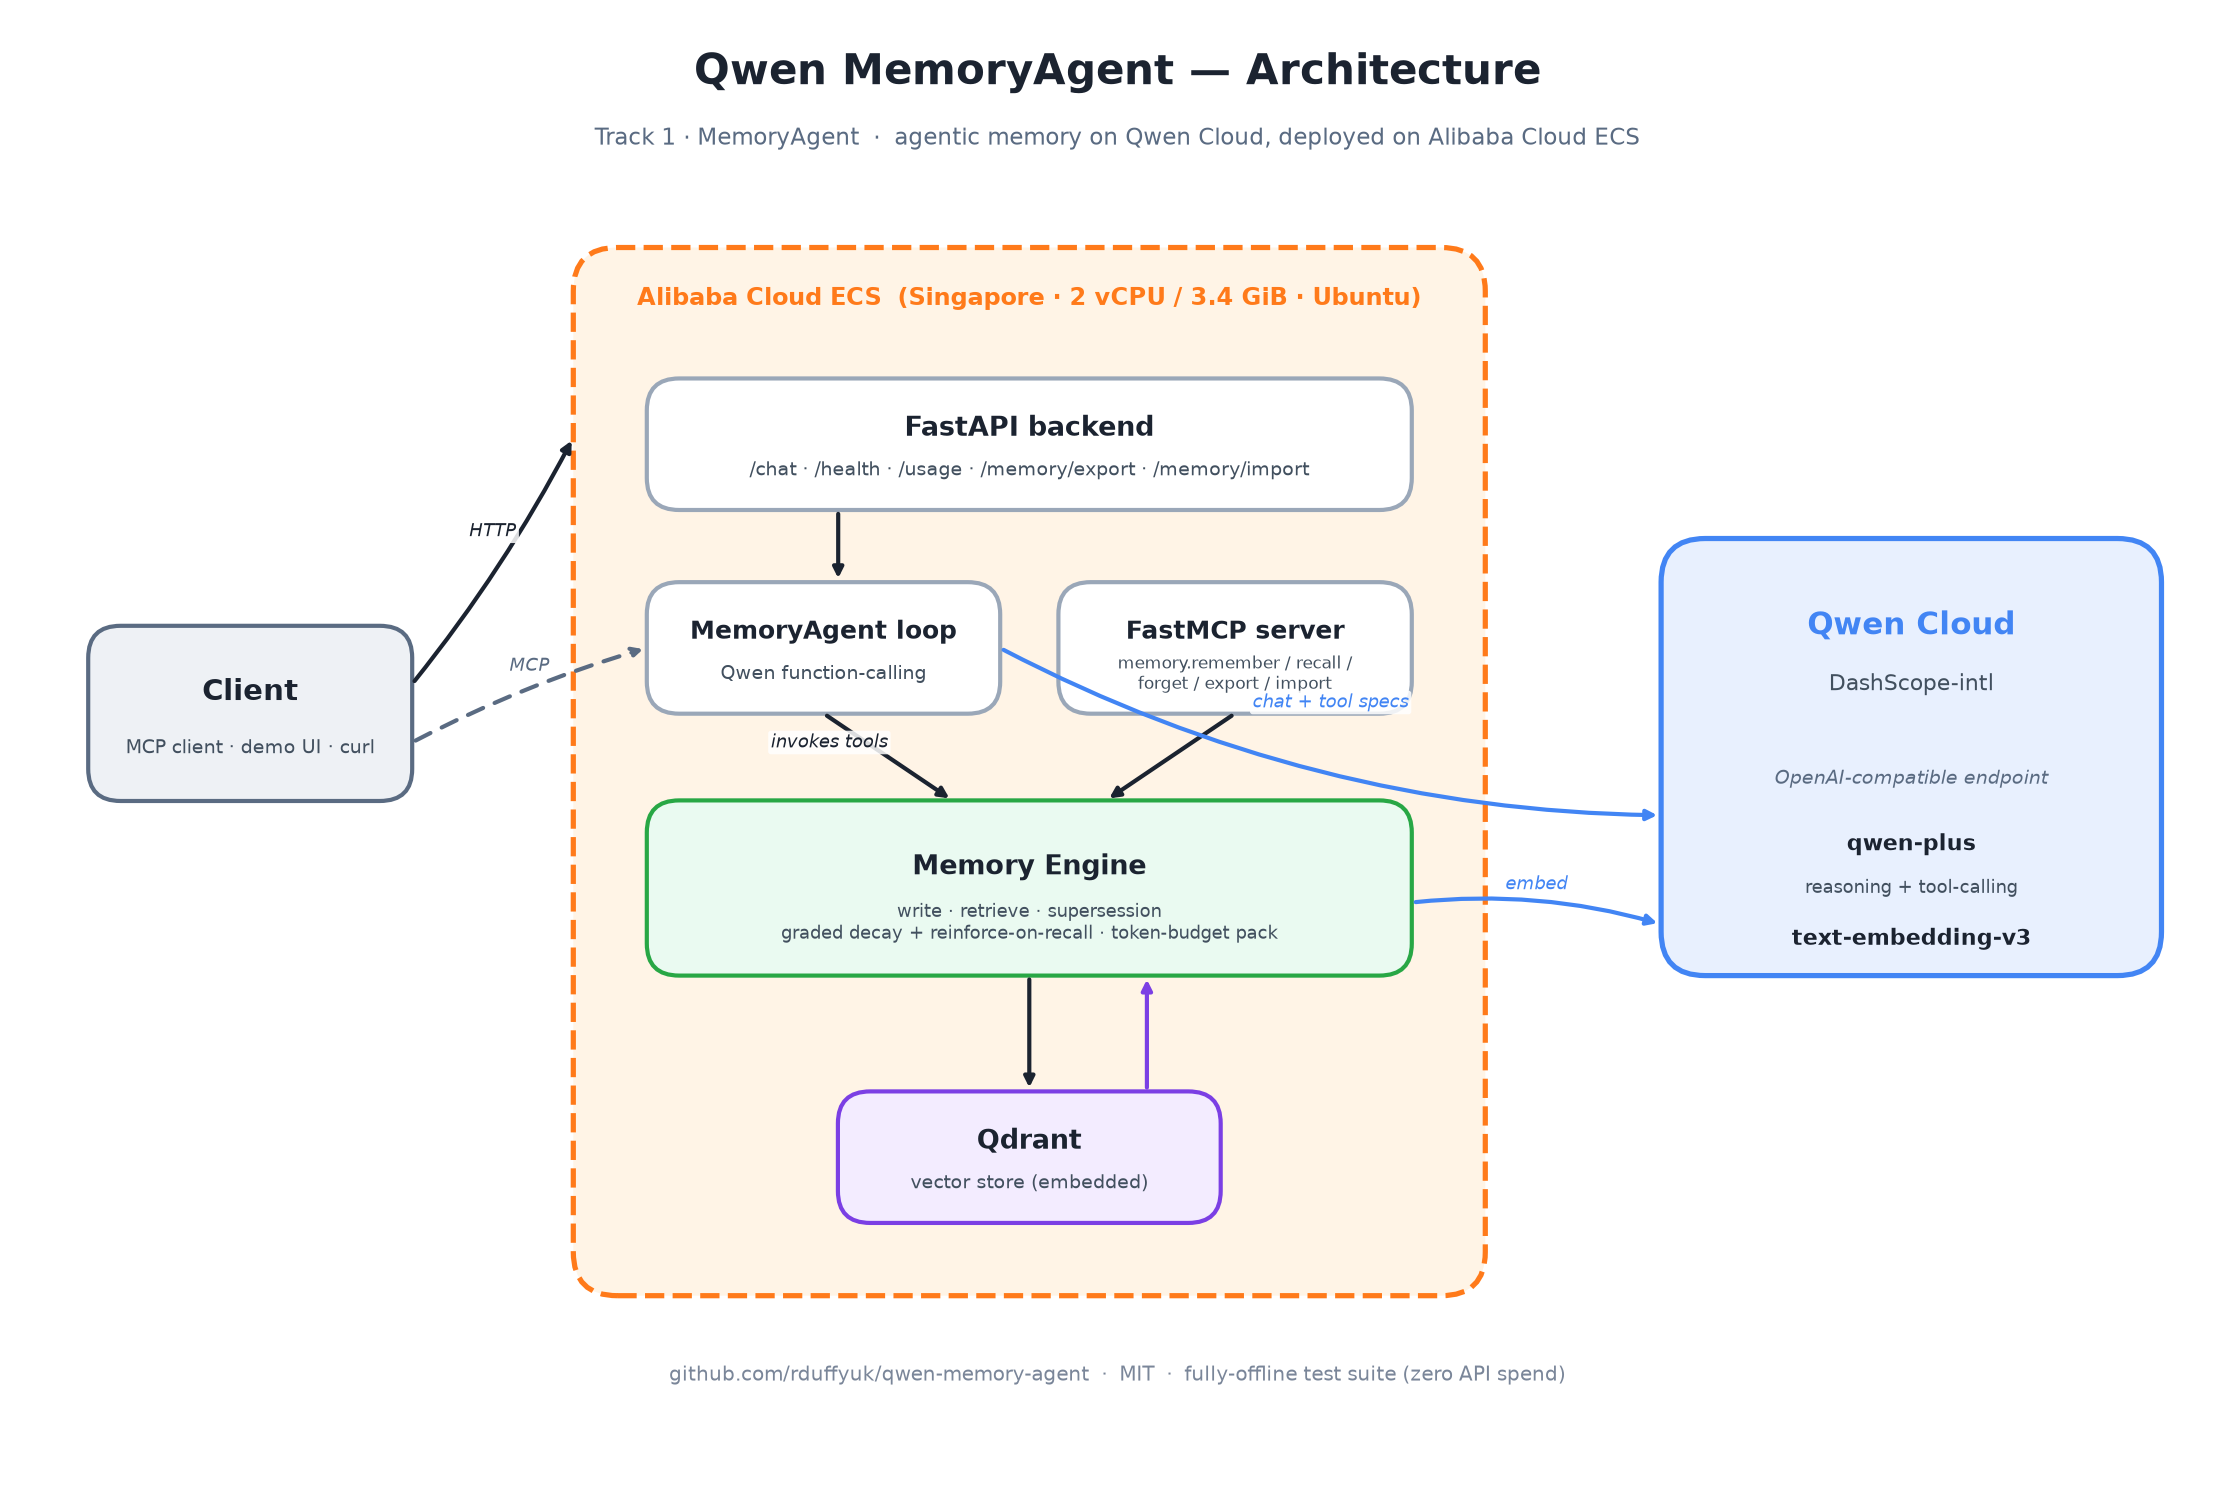
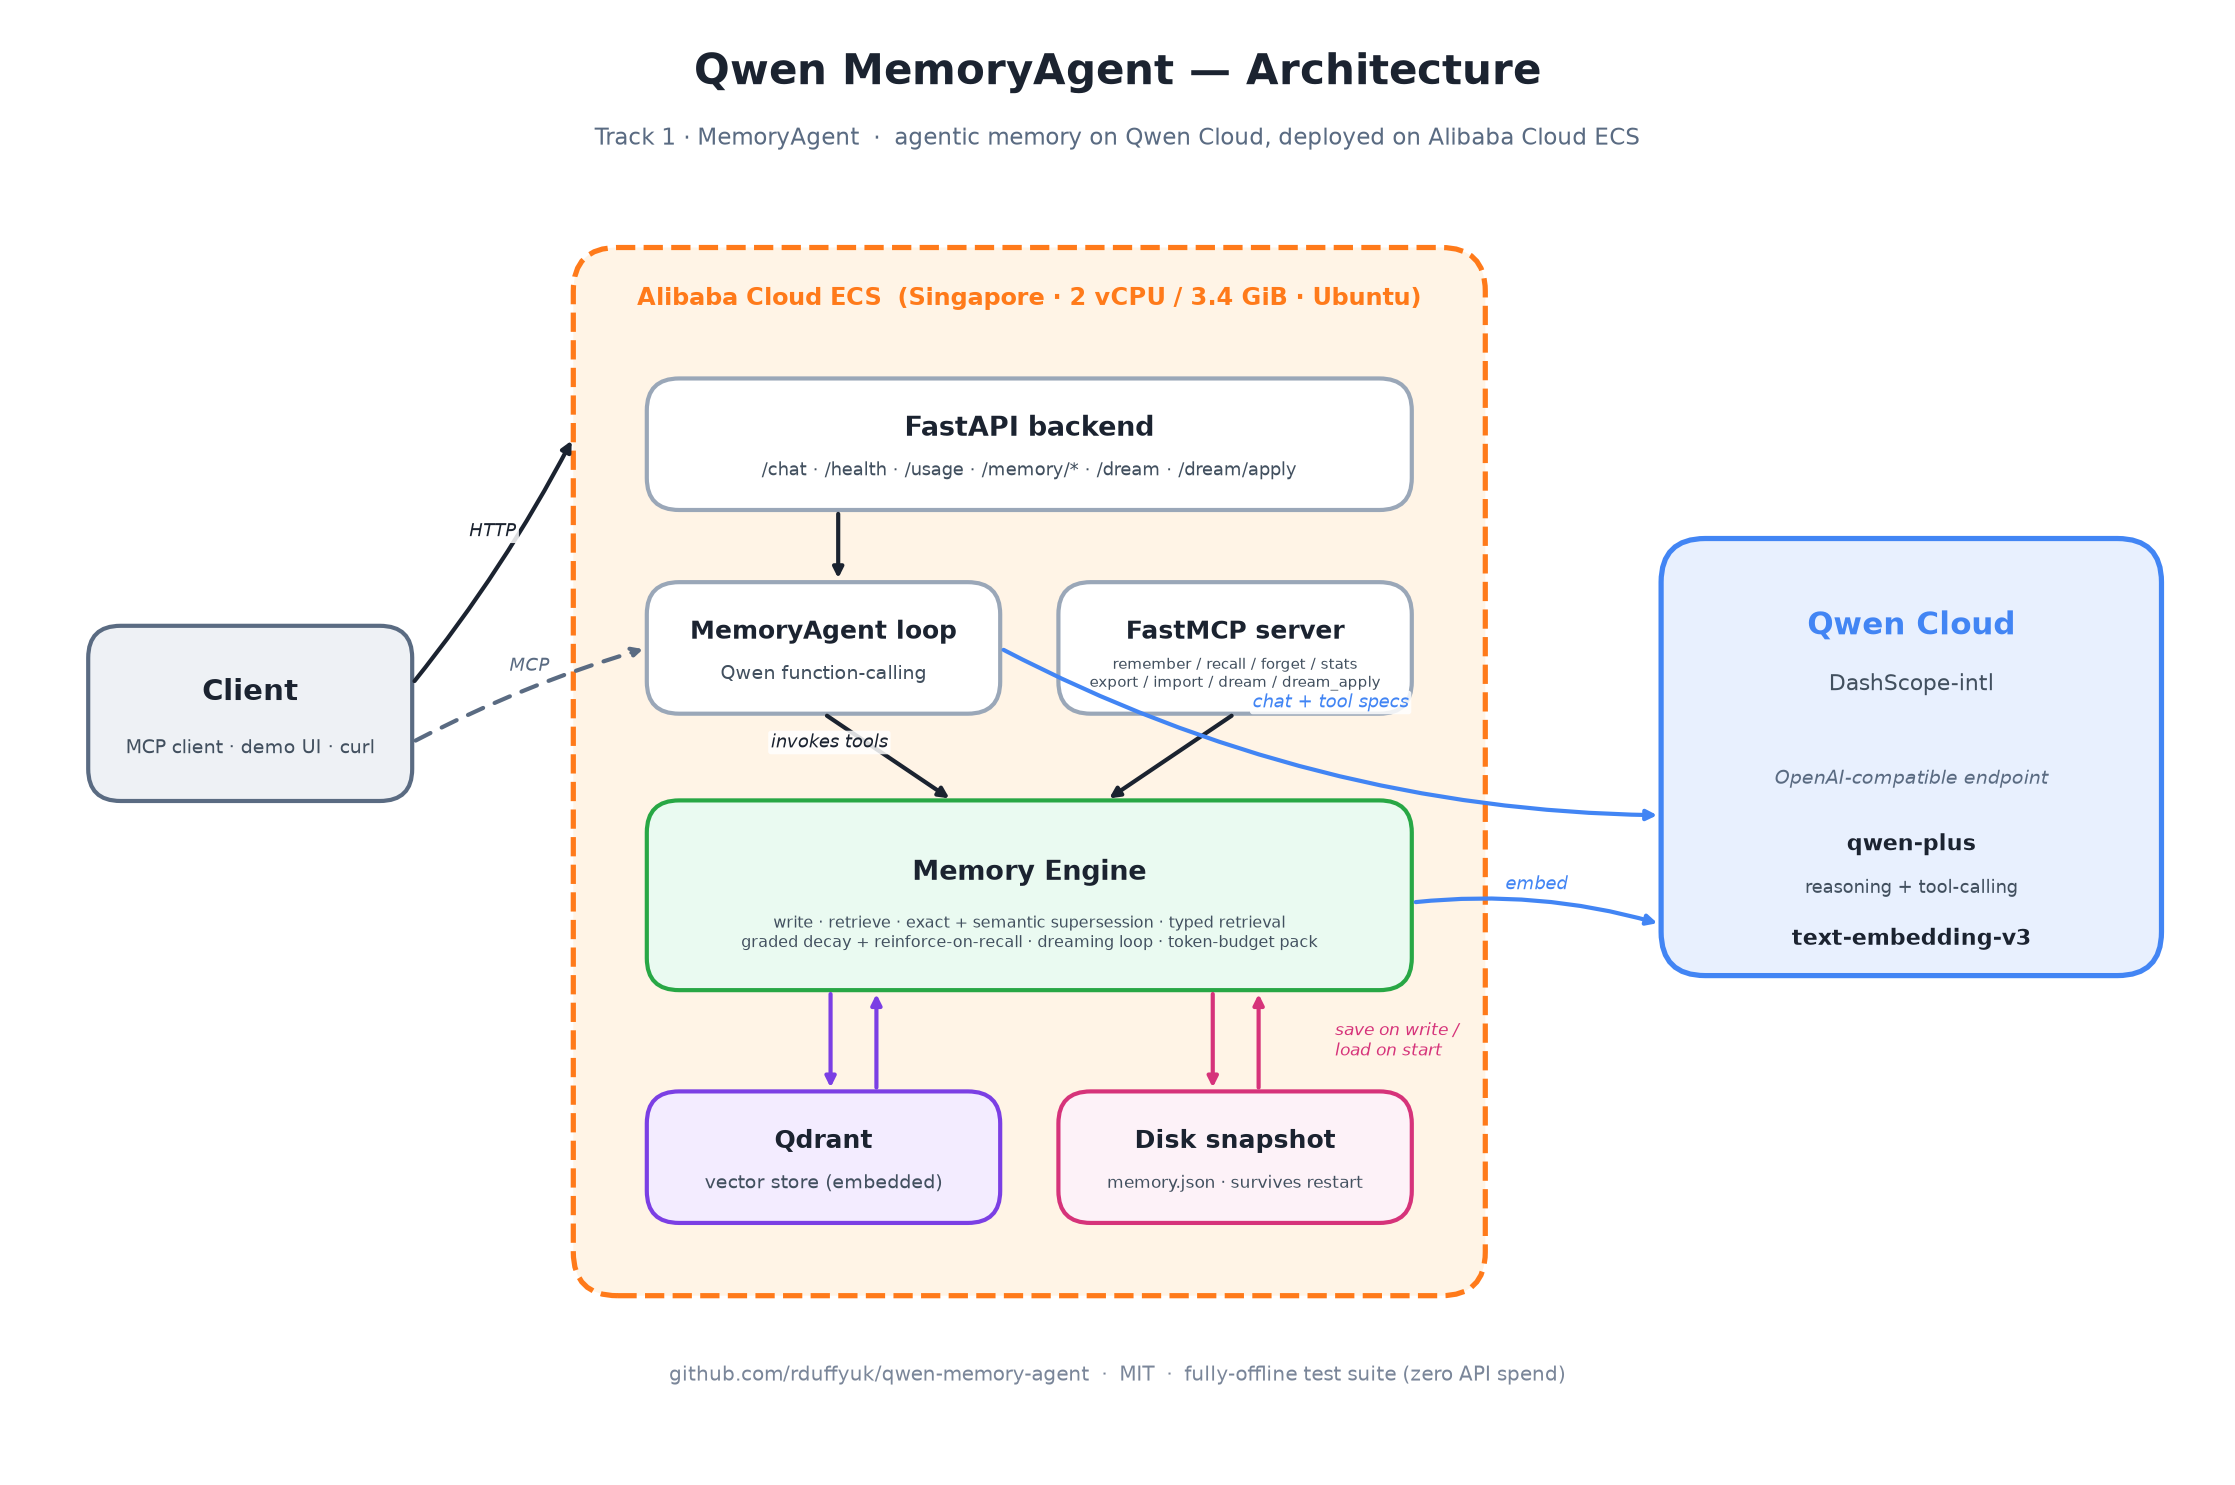
docs: sync README/SUBMISSION/diagram to semantic supersession + persistent store
The docs were last synced before the final two features shipped. Bring them
current:
- README + SUBMISSION: upgrade the supersession bullet to "exact + semantic"
  (cosine pass via SUPERSEDE_THRESHOLD retires near-paraphrases the model files
  under a different subject) and add a "persistent across restarts" bullet
  (MEMORY_PERSIST_PATH atomic JSON snapshot).
- Architecture diagram regenerated (docs/architecture.png): Memory Engine now
  lists exact + semantic supersession + typed retrieval + dreaming loop; added a
  "Disk snapshot (memory.json · survives restart)" node with save/load arrows;
  FastAPI/MCP nodes show the /dream routes + dream tools.
- Commit the diagram generator (scripts/make_arch.py) so the PNG is reproducible.

Relates to: VW-1090

diff --git a/scripts/make_arch.py b/scripts/make_arch.py
@@ -1,0 +1,139 @@
+# Author: Ryan Duffy <[email redacted]>
+# ORCID: 0009-0009-6464-0617
+# Generated with: Claude Code
+"""Render the Qwen MemoryAgent architecture diagram to docs/architecture.png."""
+from __future__ import annotations
+
+import matplotlib
+
+matplotlib.use("Agg")
+import matplotlib.patches as mpatches
+import matplotlib.pyplot as plt
+from matplotlib.patches import FancyBboxPatch
+
+# palette
+INK = "#1b2330"
+CLOUD = "#e8f0fe"
+CLOUD_EDGE = "#4285f4"
+ECS = "#fff4e6"
+ECS_EDGE = "#ff7a1a"
+COMP = "#ffffff"
+COMP_EDGE = "#9aa7b8"
+ENGINE = "#eafaf1"
+ENGINE_EDGE = "#28a745"
+QD = "#f3ecff"
+QD_EDGE = "#7b3fe4"
+CLIENT = "#eef1f5"
+CLIENT_EDGE = "#5a6b82"
+
+fig, ax = plt.subplots(figsize=(15, 10), dpi=150)
+ax.set_xlim(0, 150)
+ax.set_ylim(0, 100)
+ax.axis("off")
+
+
+def box(x, y, w, h, face, edge, title, subtitle="", tsize=13, ssize=9.5, radius=2.2, lw=2):
+    ax.add_patch(
+        FancyBboxPatch(
+            (x, y), w, h,
+            boxstyle=f"round,pad=0.02,rounding_size={radius}",
+            facecolor=face, edgecolor=edge, linewidth=lw, mutation_aspect=1,
+        )
+    )
+    cx = x + w / 2
+    if subtitle:
+        ax.text(cx, y + h * 0.62, title, ha="center", va="center",
+                fontsize=tsize, fontweight="bold", color=INK)
+        ax.text(cx, y + h * 0.30, subtitle, ha="center", va="center",
+                fontsize=ssize, color="#42505f")
+    else:
+        ax.text(cx, y + h / 2, title, ha="center", va="center",
+                fontsize=tsize, fontweight="bold", color=INK)
+    return (x, y, w, h)
+
+
+def arrow(p1, p2, text="", style="-|>", color=INK, ls="-", lw=2.0, rad=0.0, toff=(0, 2)):
+    ax.annotate(
+        "", xy=p2, xytext=p1,
+        arrowprops=dict(arrowstyle=style, color=color, lw=lw, linestyle=ls,
+                        connectionstyle=f"arc3,rad={rad}", shrinkA=2, shrinkB=2),
+    )
+    if text:
+        mx, my = (p1[0] + p2[0]) / 2 + toff[0], (p1[1] + p2[1]) / 2 + toff[1]
+        ax.text(mx, my, text, ha="center", va="center", fontsize=8.5,
+                color=color, style="italic",
+                bbox=dict(boxstyle="round,pad=0.15", fc="white", ec="none", alpha=0.85))
+
+
+# Title
+ax.text(75, 96, "Qwen MemoryAgent — Architecture",
+        ha="center", va="center", fontsize=20, fontweight="bold", color=INK)
+ax.text(75, 91.5, "Track 1 · MemoryAgent  ·  agentic memory on Qwen Cloud, deployed on Alibaba Cloud ECS",
+        ha="center", va="center", fontsize=11, color="#5a6b82")
+
+# Client (left)
+client = box(5, 46, 22, 12, CLIENT, CLIENT_EDGE,
+             "Client", "MCP client · demo UI · curl", tsize=14, ssize=9)
+
+# ECS container (center)
+ecs_x, ecs_y, ecs_w, ecs_h = 38, 12, 62, 72
+ax.add_patch(FancyBboxPatch((ecs_x, ecs_y), ecs_w, ecs_h,
+             boxstyle="round,pad=0.02,rounding_size=3",
+             facecolor=ECS, edgecolor=ECS_EDGE, linewidth=2.5, linestyle="--"))
+ax.text(ecs_x + ecs_w / 2, ecs_y + ecs_h - 3.5,
+        "Alibaba Cloud ECS  (Singapore · 2 vCPU / 3.4 GiB · Ubuntu)",
+        ha="center", va="center", fontsize=11.5, fontweight="bold", color=ECS_EDGE)
+
+cx0 = ecs_x + 5
+cw = ecs_w - 10
+fastapi = box(cx0, 66, cw, 9, COMP, COMP_EDGE,
+              "FastAPI backend", "/chat · /health · /usage · /memory/* · /dream · /dream/apply",
+              tsize=13, ssize=8.5)
+agent = box(cx0, 52, cw * 0.5 - 2, 9, COMP, COMP_EDGE,
+            "MemoryAgent loop", "Qwen function-calling", tsize=12, ssize=9)
+mcp = box(cx0 + cw * 0.5 + 2, 52, cw * 0.5 - 2, 9, COMP, COMP_EDGE,
+          "FastMCP server", "remember / recall / forget / stats\nexport / import / dream / dream_apply", tsize=12, ssize=7.2)
+engine = box(cx0, 33, cw, 13, ENGINE, ENGINE_EDGE,
+             "Memory Engine",
+             "write · retrieve · exact + semantic supersession · typed retrieval\ngraded decay + reinforce-on-recall · dreaming loop · token-budget pack",
+             tsize=13, ssize=7.8)
+qdrant = box(cx0, 17, cw * 0.5 - 2, 9, QD, QD_EDGE,
+             "Qdrant", "vector store (embedded)", tsize=12, ssize=9)
+persist = box(cx0 + cw * 0.5 + 2, 17, cw * 0.5 - 2, 9, "#fdf2f8", "#d6337a",
+              "Disk snapshot", "memory.json · survives restart", tsize=12, ssize=8.2)
+
+# Qwen Cloud (right)
+qwen = box(112, 34, 34, 30, CLOUD, CLOUD_EDGE, "", "", radius=3, lw=2.5)
+ax.text(129, 58, "Qwen Cloud", ha="center", va="center", fontsize=15, fontweight="bold", color=CLOUD_EDGE)
+ax.text(129, 54, "DashScope-intl", ha="center", va="center", fontsize=10.5, color="#42505f")
+ax.text(129, 54, "", ha="center")
+ax.text(129, 47.5, "OpenAI-compatible endpoint", ha="center", va="center", fontsize=9, style="italic", color="#5a6b82")
+ax.text(129, 43, "qwen-plus", ha="center", va="center", fontsize=10.5, fontweight="bold", color=INK)
+ax.text(129, 40, "reasoning + tool-calling", ha="center", va="center", fontsize=8.5, color="#42505f")
+ax.text(129, 36.5, "text-embedding-v3", ha="center", va="center", fontsize=10.5, fontweight="bold", color=INK)
+
+# Arrows
+arrow((27, 54), (38, 71), "HTTP", rad=0.05)                       # client -> FastAPI
+arrow((27, 50), (43, 56.5), "MCP", ls=(0, (4, 3)), color="#5a6b82", rad=-0.05)  # client -> MCP
+arrow((cx0 + cw * 0.25, 66), (cx0 + cw * 0.25, 61), "")           # FastAPI -> Agent
+arrow((agent[0] + agent[2] / 2, 52), (cx0 + cw * 0.4, 46), "invokes tools", rad=0.0, toff=(-4, 1))
+arrow((mcp[0] + mcp[2] / 2, 52), (cx0 + cw * 0.6, 46), "", rad=0.0)   # MCP -> Engine
+arrow((cx0 + cw * 0.24, 33), (cx0 + cw * 0.24, 26), "", color="#7b3fe4")   # Engine <-> Qdrant
+arrow((cx0 + cw * 0.30, 26), (cx0 + cw * 0.30, 33), "", color="#7b3fe4")
+arrow((cx0 + cw * 0.74, 33), (cx0 + cw * 0.74, 26), "", color="#d6337a")  # Engine -> snapshot (save)
+arrow((cx0 + cw * 0.80, 26), (cx0 + cw * 0.80, 33), "", color="#d6337a")  # snapshot -> Engine (load)
+ax.text(cx0 + cw * 0.90, 29.5, "save on write /\nload on start", ha="left", va="center",
+        fontsize=8, style="italic", color="#d6337a")
+
+# Agent <-> Qwen (chat + tools)
+arrow((agent[0] + agent[2], 56.5), (112, 45), "chat + tool specs", rad=0.12, color=CLOUD_EDGE)
+# Engine <-> Qwen (embed)
+arrow((cx0 + cw, 39), (112, 37.5), "embed", rad=-0.10, color=CLOUD_EDGE)
+
+# footer
+ax.text(75, 6.5, "github.com/rduffyuk/qwen-memory-agent  ·  MIT  ·  fully-offline test suite (zero API spend)",
+        ha="center", va="center", fontsize=9.5, color="#7a8699")
+
+plt.tight_layout()
+plt.savefig("docs/architecture.png", bbox_inches="tight", facecolor="white", dpi=150)
+print("wrote docs/architecture.png")

diff --git a/README.md b/README.md
@@ -10,11 +10,12 @@ Most memory agents are "stuff everything into RAG and hope." This one treats mem
 measurable engineering problem, and every capability maps to a Track-1 requirement:
 
 - **Agentic memory via Qwen function-calling** — the model invokes `remember` / `recall` / `forget` tools through a real agent loop. It's an agent *with* memory, not a database with an LLM bolted on.
-- **Supersession-aware forgetting** — when a new fact contradicts an old one of the same subject/kind, the old record is retired (not just buried under recency), so recall stops surfacing the stale value.
+- **Supersession-aware forgetting (exact *and* semantic)** — when a new fact contradicts an old one, the old record is retired. Exact `(subject, type)` match handles the clean case; a **cosine-similarity** pass (configurable `SUPERSEDE_THRESHOLD`) also retires near-paraphrases the model filed under a *different* subject — the case that defeats exact matching in a real agent loop.
 - **Graded, time-based decay + reinforce-on-recall** — `effective_salience = salience · 0.5^(age / half_life)` (per-type half-lives; `preference` pinned). Recalling a memory refreshes it (`access_count`, `last_accessed`), so hot memories stay and cold ones fade — *"timely forgetting of outdated information."*
 - **Typed retrieval — a second self-correcting layer** — a type-aware ranking prior (a durable `preference` outranks a throwaway `episodic` note of equal cosine) *plus* a retrieval-time "one-active-per-`(subject, type)`, keep-newest" veto that catches stale contradictions the write path can miss (e.g. records that arrive via import). *"Recall the most critical memories under limited context."*
 - **Budget-constrained recall** — retrieval scores memories by `α·cosine + β·recency + γ·effective_salience + δ·type_prior` and greedily packs them until a configurable token budget is hit, so context stays small *and* relevant.
 - **Portable memory (export / import)** — the whole store round-trips as JSON (vectors preserved, no re-embedding) or renders to Markdown, so memory moves *across sessions and machines.*
+- **Persistent across restarts** — set `MEMORY_PERSIST_PATH` and the store writes an atomic JSON snapshot on every change and reloads it on startup (rebuilding the vector index), so memories **survive a full server restart** — real persistence, not process-lifetime state.
 - **The dreaming loop (propose → approve)** — an offline Qwen pass reviews the store and *proposes* consolidations (merge / forget / re-salience); a human approves, then only approved proposals are applied. It validates every proposal against live record ids, so it refuses to act on its own hallucinations. *"Autonomously accumulate experience"* — with a human in the loop.
 - **Token & model observability** — every Qwen call's `usage` (prompt / completion / total tokens, per model) is accumulated and exposed at `/usage`; `/chat` reports the per-request token delta.
 - **A reproducible benchmark** — synthetic multi-session personas, a held-out query set, and baselines (no-memory / full-history / naive-RAG / ours), scored on recall accuracy, **staleness rate**, and a **context-efficiency curve**.
@@ -30,8 +31,9 @@ flowchart TB
         AGENT["MemoryAgent loop<br/>Qwen function-calling"]
         DREAM["Dreaming loop<br/>propose → approve consolidation"]
         MCP["FastMCP server<br/>remember / recall / forget / stats<br/>export / import / dream / dream_apply"]
-        ENG["Memory Engine<br/>write · retrieve · forget<br/>supersession + decay + typed<br/>retrieval + token-budget packing"]
-        QD[("Qdrant<br/>vector store")]
+        ENG["Memory Engine<br/>write · retrieve · exact + semantic supersession<br/>typed retrieval · decay + reinforce · dreaming loop<br/>token-budget packing"]
+        QD[("Qdrant<br/>vector store (embedded)")]
+        SNAP[("Disk snapshot<br/>memory.json · survives restart")]
     end
 
     DS["Qwen Cloud / DashScope-intl<br/>reasoning model + text-embedding<br/>(usage metered per call)"]
@@ -47,9 +49,10 @@ flowchart TB
     DREAM <-->|"review memories"| DS
     ENG <-->|"embed"| DS
     ENG <--> QD
+    ENG <-->|"save on write / load on start"| SNAP
 ```
 
-The agent loop (`/chat`) lets Qwen choose tool calls; the same memory engine is also exposed directly over MCP for any MCP client, and the dreaming loop drives it as a maintenance pass. The Qwen client has bounded retry/backoff for resilience and meters token usage on every call.
+The agent loop (`/chat`) lets Qwen choose tool calls; the same memory engine is also exposed directly over MCP for any MCP client, and the dreaming loop drives it as a maintenance pass. With `MEMORY_PERSIST_PATH` set, the engine snapshots to disk on every change and rehydrates on startup, so the store survives a restart. The Qwen client has bounded retry/backoff for resilience and meters token usage on every call.
 
 ## HTTP + MCP surface
 

diff --git a/docs/SUBMISSION.md b/docs/SUBMISSION.md
@@ -24,9 +24,11 @@ memory as a first-class, measurable engineering problem.
 - **Agentic memory via Qwen function-calling.** The agent itself decides when to
   call `remember` / `recall` / `forget` through Qwen's tool-calling — it's an agent
   *with* memory, not a database with an LLM bolted on.
-- **Supersession-aware forgetting.** When a new fact contradicts an existing one of
-  the same subject/type (e.g. "prefers tea" replacing "prefers coffee"), the old
-  record is retired (`superseded_by`) so retrieval stops surfacing the stale value.
+- **Supersession-aware forgetting (exact + semantic).** When a new fact contradicts
+  an existing one, the old record is retired (`superseded_by`). Exact `(subject, type)`
+  match handles the clean case; a **cosine-similarity** pass (configurable
+  `SUPERSEDE_THRESHOLD`) also retires near-paraphrases the model filed under a different
+  subject — the case that defeats exact matching in a live agent loop.
 - **Graded decay + reinforce-on-recall.** `effective_salience = salience · 0.5^(age /
   half_life)` with per-type half-lives (`preference` pinned); recalling a memory
   refreshes it. Hot memories persist, cold ones fade — *timely forgetting.*
@@ -39,6 +41,9 @@ memory as a first-class, measurable engineering problem.
   them until a configurable token budget is hit — relevant context stays small.
 - **Portable memory.** The whole store round-trips as JSON (vectors preserved, no
   re-embedding) or renders to Markdown — memory moves across sessions and machines.
+- **Persistent across restarts.** With `MEMORY_PERSIST_PATH` set, the store writes an
+  atomic JSON snapshot on every change and reloads it on startup (rebuilding the vector
+  index) — memories survive a full server restart, not just process lifetime.
 - **The dreaming loop (propose → approve).** An offline Qwen pass proposes
   consolidations (merge / forget / re-salience); a human approves, then only
   approved proposals are applied. It validates proposals against live record ids, so